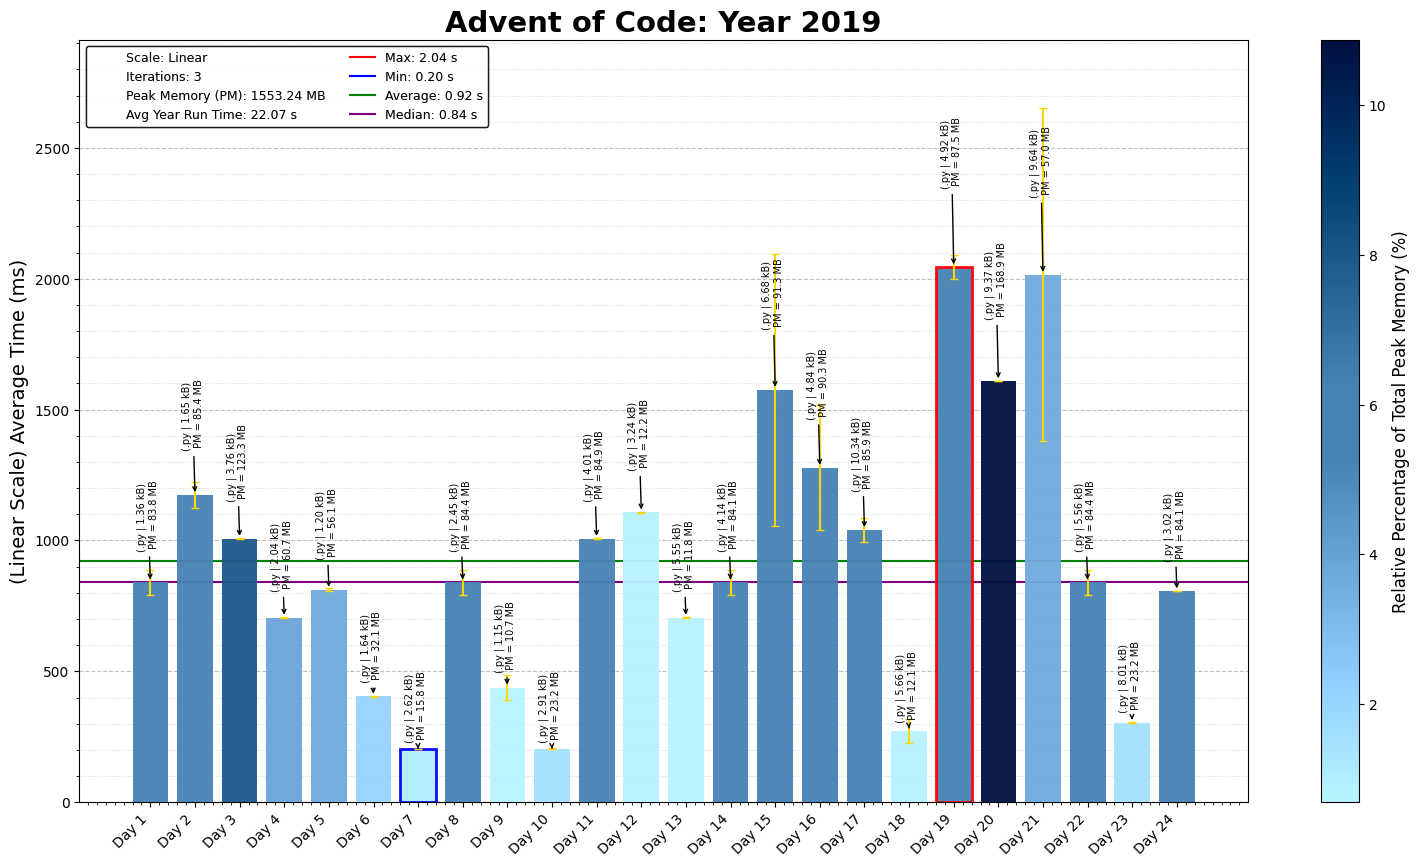
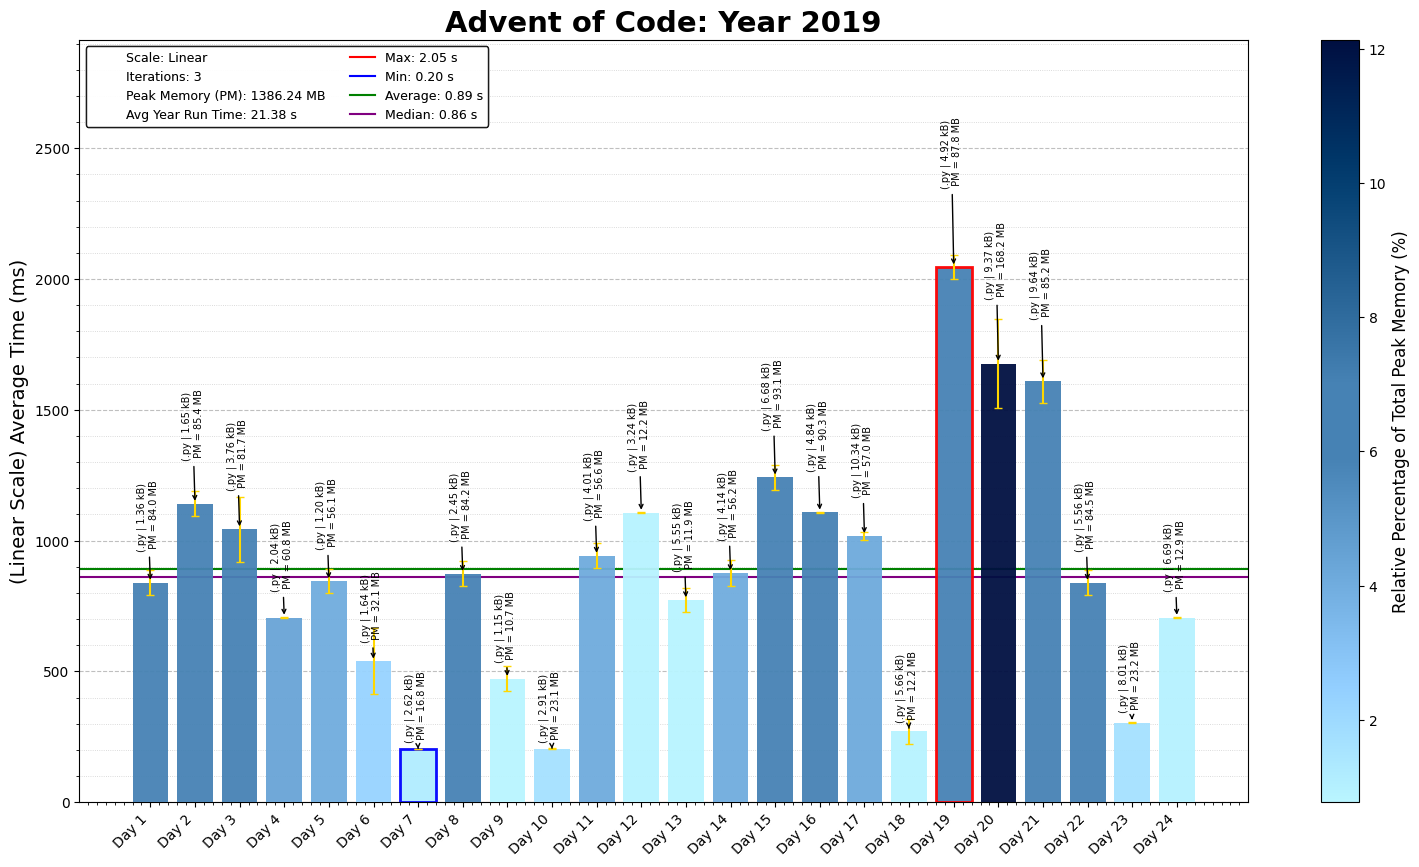
2019 Dy 24 P2

diff --git a/2019/24/2019Day24.py b/2019/24/2019Day24.py
@@ -9,6 +9,7 @@ Brief: [Game of Life]
 
 import os, re, copy, time
 from collections import Counter
+from collections import defaultdict
 start_time = time.time()
 
 # Load the input data from the specified file path
@@ -22,6 +23,7 @@ with open(D24_file_path) as file:
 class Planet_Discord:
     def __init__(self, initial_state: list[str]):
         self.init_state = initial_state
+        self.grid_size = len(initial_state)
         self.ADJACENT_POSITIONS = [(1, 0), (-1, 0), (0, 1), (0, -1)]
 
     def get_adjacent_bug_count(self, position: tuple, state_dict: dict) -> int:
@@ -71,128 +73,113 @@ class Planet_Discord:
             evolution_history[mins] = evolved_state
         return rating
 
-    def evolve_infinite_system(self, current_state: dict):
-        evolved_state = {}
+    def get_adjacent_recursive(self, x: int, y: int, z: int):
+        """Returns the list of adjacent coordinates, accounting for recursion."""
+        if (x, y) == (2, 2):  # The center square leads to recursion.
+            return []
 
-        for (row, col, level), state in current_state.items():
-            new_state = '.'  # Default state
-            bugs_count = 0   # Initialise bug count
+        adjacent = []
 
-            # Count adjacent bugs
-            for dr, dc in self.ADJACENT_POSITIONS:
-                next_row, next_col = row + dr, col + dc
-                adj_state = current_state.get((next_row, next_col, level), '.')
+        # Left
+        if x == 0:
+            adjacent.append((1, 2, z - 1))  # Outward recursion
+        elif (x, y) == (3, 2):
+            adjacent.extend((4, yy, z + 1) for yy in range(self.grid_size))  # Inward recursion
+        else:
+            adjacent.append((x - 1, y, z))
 
-                if adj_state == '#':
-                    bugs_count += 1
-                # Handle infinite recursion levels
-                elif adj_state == '?':
-                    level -= 1
-                    if dr == 1:
-                        for r, row_data in enumerate(self.BASE_GRID):
-                            for c, cell in enumerate(row_data):
-                                if r == 0:
-                                    if (r, c, level) in current_state.keys():
-                                        bugs_count += current_state.get((next_row, next_col, level), '.') if adj_state == '#' else 0
-                                evolved_state[(r, c, level)] = cell
-                    elif dr == -1:
-                        for r, row_data in enumerate(self.BASE_GRID):
-                            for c, cell in enumerate(row_data):
-                                if r == 4:
-                                    if (r, c, level) in current_state.keys():
-                                        bugs_count += current_state.get((next_row, next_col, level), '.') if adj_state == '#' else 0
-                                evolved_state[(r, c, level)] = cell
-                    elif dc == 1:
-                        for r, row_data in enumerate(self.BASE_GRID):
-                            for c, cell in enumerate(row_data):
-                                if c == 0:
-                                    if (r, c, level) in current_state.keys():
-                                        bugs_count += current_state.get((next_row, next_col, level), '.') if adj_state == '#' else 0
-                                evolved_state[(r, c, level)] = cell
-                    elif dc == -1:
-                        for r, row_data in enumerate(self.BASE_GRID):
-                            for c, cell in enumerate(row_data):
-                                if c == 0:
-                                    if (r, c, level) in current_state.keys():
-                                        bugs_count += current_state.get((next_row, next_col, level), '.') if adj_state == '#' else 0
-                                evolved_state[(r, c, level)] = cell
-                    for r, row_data in enumerate(self.BASE_GRID):
-                        for c, cell in enumerate(row_data):
-                            evolved_state[(r, c, level)] = cell
+        # Right
+        if x == 4:
+            adjacent.append((3, 2, z - 1))
+        elif (x, y) == (1, 2):
+            adjacent.extend((0, yy, z + 1) for yy in range(self.grid_size))
+        else:
+            adjacent.append((x + 1, y, z))
 
-            # Evolution rules
-            if state == '.' and bugs_count in [1, 2]:
-                new_state = '#'
-            elif state == '#' and bugs_count == 1:
-                new_state = '#'
+        # Up
+        if y == 0:
+            adjacent.append((2, 1, z - 1))
+        elif (x, y) == (2, 3):
+            adjacent.extend((xx, 4, z + 1) for xx in range(self.grid_size))
+        else:
+            adjacent.append((x, y - 1, z))
 
-            evolved_state[(row, col, level)] = new_state
-        # print(len(evolved_state), )
-        return evolved_state
+        # Down
+        if y == 4:
+            adjacent.append((2, 3, z - 1))
+        elif (x, y) == (2, 1):
+            adjacent.extend((xx, 0, z + 1) for xx in range(self.grid_size))
+        else:
+            adjacent.append((x, y + 1, z))
 
+        return adjacent
 
-    def simulate_recursive_life(self, total_time: int, visualize: bool = False):
-        mid = len(self.init_state) // 2
-        init_recursion = [*self.init_state]
-        init_recursion[mid] = init_recursion[mid][:mid] + '?' + init_recursion[mid][mid + 1:]
+    def count_adjacent_bugs(self, grids, x, y, z):
+        """Counts the number of adjacent bugs for a given cell."""
+        adjacent = self.get_adjacent_recursive(x, y, z)
+        ch = grids[z][y][x]
+        n_neighbours = 0
+        for x, y, z in adjacent:
+            if z not in grids and ch != "#":
+                continue
+            if grids[z][y][x] == "#":
+                n_neighbours += 1
+        return n_neighbours
 
-        self.BASE_GRID = ['.....', '.....', '..?..', '.....', '.....']
-        life_state = {
-            (row, col, 0): state
-            for row, row_data in enumerate(init_recursion)
-            for col, state in enumerate(row_data)
-        }
+    def evolve_cell(self, grids, x, y, z):
+        """Determines the next state of a cell based on the number of adjacent bugs."""
+        bug_neighbors = self.count_adjacent_bugs(grids, x, y, z)
+        if grids[z][y][x] == "#":
+            return "#" if bug_neighbors == 1 else "."
+        return "#" if bug_neighbors in (1, 2) else "."
 
-        history = {0: Counter(life_state.values())['#']}
+    def evolve_level(self, grids, z):
+        """Evolves an entire grid level for the next iteration."""
+        return tuple(
+            tuple(self.evolve_cell(grids, x, y, z) for x in range(self.grid_size))
+            for y in range(self.grid_size)
+        )
+
+    def empty_grid(self):
+        """Returns an empty grid."""
+        return tuple(tuple("." for _ in range(5)) for _ in range(5))
+
+    def iterate(self, grids):
+        """Evolves all active grid levels, including newly created levels if necessary."""
+        new_grids = defaultdict(self.empty_grid)
+        grids_to_scan = set(grids)
+        for z in grids_to_scan:
+            new_grids[z] = self.evolve_level(grids, z)
+        for z in set(grids) - grids_to_scan:
+            new_grids[z] = self.evolve_level(grids, z)
+        return new_grids
+
+    def count_bugs(self, grids: list) -> int:
+        return sum(ch == "#" for grid in grids.values() for line in grid for ch in line)
+
+    def simulate_recursive_bugs(self, total_time: int, visualize: bool = False) -> dict:
+        """Simulates the recursive bug evolution using a grid-based approach."""
+        grid = tuple(tuple(ch for ch in line) for line in self.init_state)
+        grids = defaultdict(self.empty_grid, {0: grid})
+
+        history = {0: self.count_bugs(grids)}
         for mins in range(1, total_time + 1):
-            life_state = self.evolve_infinite_system(life_state)
-            history[mins] = Counter(life_state.values())['#']
-            print(f"{mins=}, len+{len(life_state)}, bug_count={Counter(life_state.values())['#']}")
+            grids = self.iterate(grids)
+            bug_count = self.count_bugs(grids)
+            history[mins] = bug_count
+            if visualize:
+                print(f"{mins=}, size={len(grids)}, bug_count={bug_count}")
 
         return history
-
-
-input_data = ['....#','#..#.','#..##','..#..','#....']
 
 planet = Planet_Discord(input_data)
 rating_p1 = planet.simulate_life()
 print("Part 1:", rating_p1)
 
-full_time = 10 #* 20
-bug_history = planet.simulate_recursive_life(full_time)
+full_time = 200
+bug_history = planet.simulate_recursive_bugs(full_time)
 print("Part 2:", bug_history[full_time])
 
-print(f"Execution Time = {time.time() - start_time:.5f}s")
+# print(f"Execution Time = {time.time() - start_time:.5f}s")
 
-#      |     |         |     |
-#   1  |  2  |    3    |  4  |  5
-#      |     |         |     |
-# -----+-----+---------+-----+-----
-#      |     |         |     |
-#   6  |  7  |    8    |  9  |  10
-#      |     |         |     |
-# -----+-----+---------+-----+-----
-#      |     |A|B|C|D|E|     |
-#      |     |-+-+-+-+-|     |
-#      |     |F|G|H|I|J|     |
-#      |     |-+-+-+-+-|     |
-#  11  | 12  |K|L|?|N|O|  14 |  15
-#      |     |-+-+-+-+-|     |
-#      |     |P|Q|R|S|T|     |
-#      |     |-+-+-+-+-|     |
-#      |     |U|V|W|X|Y|     |
-# -----+-----+---------+-----+-----
-#      |     |         |     |
-#  16  | 17  |    18   |  19 |  20
-#      |     |         |     |
-# -----+-----+---------+-----+-----
-#      |     |         |     |
-#  21  | 22  |    23   |  24 |  25
-#      |     |         |     |
-# Tile 19 has four adjacent tiles: 14, 18, 20, and 24.
-# Tile G has four adjacent tiles: B, F, H, and L.
-# Tile D has four adjacent tiles: 8, C, E, and I.
-# Tile E has four adjacent tiles: 8, D, 14, and J.
-# Tile 14 has eight adjacent tiles: 9, E, J, O, T, Y, 15, 19.
-# Tile N has eight adjacent tiles: I, O, S, and
-#   five tiles within the sub-grid marked ?.
+
